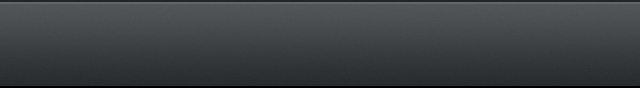
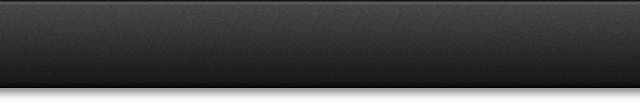
filters and sort

diff --git a/Spotlight/RootViewController.m b/Spotlight/RootViewController.m
@@ -20,12 +20,18 @@
   if (self) {
     [[PlaceDataCenter defaultCenter] setDelegate:self];
     [[NSNotificationCenter defaultCenter] addObserver:self selector:@selector(reverseGeocode) name:kLocationAcquired object:nil];
+    
+    _sortBy = [@"popularity" retain];
+    _distance = 0.5;
+    _limit = 25;
   }
   return self;
 }
 
 - (void)viewDidUnload {
   [super viewDidUnload];
+  RELEASE_SAFELY(_currentLocationLabel);
+  RELEASE_SAFELY(_toolbar);
   RELEASE_SAFELY(_searchField);
   RELEASE_SAFELY(_compassButton);
   RELEASE_SAFELY(_cancelButton);
@@ -37,9 +43,13 @@
   [[PlaceDataCenter defaultCenter] setDelegate:nil];
   [_searchField removeFromSuperview];
   
+  RELEASE_SAFELY(_currentLocationLabel);
+  RELEASE_SAFELY(_toolbar);
   RELEASE_SAFELY(_searchField);
   RELEASE_SAFELY(_compassButton);
   RELEASE_SAFELY(_cancelButton);
+  
+  RELEASE_SAFELY(_sortBy);
   [super dealloc];
 }
 
@@ -54,7 +64,6 @@
 #pragma mark - View
 - (void)viewWillAppear:(BOOL)animated {
   [super viewWillAppear:animated];
-
   
   [UIView animateWithDuration:0.4
                         delay:0.0
@@ -69,6 +78,7 @@
 
 - (void)viewWillDisappear:(BOOL)animated {
   [super viewWillDisappear:animated];
+  
   [_searchField resignFirstResponder];
   
   [UIView animateWithDuration:0.4
@@ -95,11 +105,38 @@
   
   // Table
   [self setupTableViewWithFrame:self.view.bounds andStyle:UITableViewStylePlain andSeparatorStyle:UITableViewCellSeparatorStyleNone];
-  
   _tableView.rowHeight = 160.0;
   
+  // Toolbar
+  _toolbar = [[UIToolbar alloc] initWithFrame:CGRectMake(0, 0, self.view.width, 44.0)];
+  NSMutableArray *toolbarItems = [NSMutableArray arrayWithCapacity:1];
+
+  [toolbarItems addObject:[UIBarButtonItem barButtonWithTitle:@"Sort" withTarget:self action:@selector(sort) width:60 height:30 buttonType:BarButtonTypeSilver]];
+  [toolbarItems addObject:[[UIBarButtonItem alloc] initWithBarButtonSystemItem:UIBarButtonSystemItemFlexibleSpace target:nil action:nil]];
+  
+  UIView *titleView = [[[UIView alloc] initWithFrame:CGRectMake(0, 0, _toolbar.width - 60 - 60 - 40, _toolbar.height)] autorelease];
+  titleView.autoresizingMask = UIViewAutoresizingFlexibleHeight | UIViewAutoresizingFlexibleWidth;
+  _currentLocationLabel = [[UILabel alloc] initWithFrame:titleView.bounds];
+  _currentLocationLabel.autoresizingMask = UIViewAutoresizingFlexibleHeight;
+  _currentLocationLabel.textAlignment = UITextAlignmentCenter;
+  _currentLocationLabel.numberOfLines = 3;
+  _currentLocationLabel.font = [PSStyleSheet fontForStyle:@"currentLocationLabel"];
+  _currentLocationLabel.textColor = [PSStyleSheet textColorForStyle:@"currentLocationLabel"];
+  _currentLocationLabel.shadowColor = [PSStyleSheet shadowColorForStyle:@"currentLocationLabel"];
+  _currentLocationLabel.shadowOffset = CGSizeMake(0, 1);
+  _currentLocationLabel.backgroundColor = [UIColor clearColor];
+  [titleView addSubview:_currentLocationLabel];
+  UIBarButtonItem *currentLocationItem = [[[UIBarButtonItem alloc] initWithCustomView:titleView] autorelease];
+  [toolbarItems addObject:currentLocationItem];
+  
+  [toolbarItems addObject:[[UIBarButtonItem alloc] initWithBarButtonSystemItem:UIBarButtonSystemItemFlexibleSpace target:nil action:nil]];
+  [toolbarItems addObject:[UIBarButtonItem barButtonWithTitle:@"Filter" withTarget:self action:@selector(filter) width:60 height:30 buttonType:BarButtonTypeSilver]];
+
+  [_toolbar setItems:toolbarItems];
+  [self setupFooterWithView:_toolbar];
+  
   // Compass location finder
-  _compassButton = [[UIBarButtonItem navButtonWithImage:[UIImage imageNamed:@"icon_compass.png"] withTarget:self action:@selector(findMyLocation) buttonType:NavButtonTypeBlue] retain];
+  _compassButton = [[UIBarButtonItem barButtonWithImage:[UIImage imageNamed:@"icon_compass.png"] withTarget:self action:@selector(findMyLocation) width:40 height:30 buttonType:BarButtonTypeBlue] retain];
   self.navigationItem.rightBarButtonItem = _compassButton;
   
   // Setup Search
@@ -114,18 +151,90 @@
   
   [[[UIApplication sharedApplication] keyWindow] addSubview:_searchField];
   
-  _cancelButton = [[UIBarButtonItem navButtonWithTitle:@"Cancel" withTarget:self action:@selector(cancelSearch) buttonType:NavButtonTypeSilver] retain];
+  _cancelButton = [[UIBarButtonItem barButtonWithTitle:@"Cancel" withTarget:self action:@selector(cancelSearch) width:60 height:30 buttonType:BarButtonTypeSilver] retain];
   
   // Populate datasource
   [self loadDataSource];
 }
 
-#pragma mark - Find My Location
+#pragma mark - Button Actios
 - (void)findMyLocation {
   [[PSLocationCenter defaultCenter] getMyLocation];
 }
 
+- (void)sort {
+  UIActionSheet *as = [[[UIActionSheet alloc] initWithTitle:@"Sort Results" delegate:self cancelButtonTitle:@"Cancel" destructiveButtonTitle:nil otherButtonTitles:@"Popularity", @"Distance", nil] autorelease];
+  as.tag = kSortActionSheet;
+  [as showFromToolbar:_toolbar];
+}
+
+- (void)filter {
+  UIActionSheet *as = [[[UIActionSheet alloc] initWithTitle:@"Distance" delegate:self cancelButtonTitle:@"Cancel" destructiveButtonTitle:nil otherButtonTitles:@"0.2 miles", @"0.5 miles", @"1.0 miles", @"3.0 miles", @"5.0 miles", nil] autorelease];
+  as.tag = kFilterActionSheet;
+  [as showFromToolbar:_toolbar];
+}
+
+#pragma mark - UIActionSheetDelegate
+- (void)actionSheet:(UIActionSheet *)actionSheet clickedButtonAtIndex:(NSInteger)buttonIndex {
+  switch (actionSheet.tag) {
+    case kSortActionSheet:
+      switch (buttonIndex) {
+        case 0:
+          _sortBy = @"index";
+          break;
+        case 1:
+          _sortBy = @"distance";
+          break;
+        default:
+          _sortBy = @"index";
+          break;
+      }
+      // Sort results
+      [self sortResults];
+      break;
+    case kFilterActionSheet:
+      switch (buttonIndex) {
+        case 0:
+          _distance = 0.2;
+          break;
+        case 1:
+          _distance = 0.5;
+          break;
+        case 2:
+          _distance = 1.0;
+          break;
+        case 3:
+          _distance = 3.0;
+          break;
+        case 4:
+          _distance = 5.0;
+          break;
+        default:
+          _distance = 0.5;
+          break;
+      }
+      // Reload Location
+      [self findMyLocation];
+      break;
+    default:
+      break;
+  }
+}
+
+#pragma mark - Sort
+- (void)sortResults {
+  NSArray *results = [self.items objectAtIndex:0];
+  NSArray *sortedResults = [results sortedArrayUsingDescriptors:[NSArray arrayWithObject:[NSSortDescriptor sortDescriptorWithKey:_sortBy ascending:YES]]];
+  [self.items replaceObjectAtIndex:0 withObject:sortedResults];
+  [self.tableView reloadData];
+}
+
 #pragma mark - State Machine
+- (void)reloadDataSource {
+  [super reloadDataSource];
+  [self loadDataSource];
+}
+
 - (void)loadDataSource {
   [super loadDataSource];
   [self findMyLocation];
@@ -159,8 +268,10 @@
   NSArray *addressArray = [NSArray arrayWithObjects:[[address objectForKey:@"FormattedAddressLines"] objectAtIndex:0], [[address objectForKey:@"FormattedAddressLines"] objectAtIndex:1], nil];
   NSString *formattedAddress = [addressArray componentsJoinedByString:@" "];
   
+  _currentLocationLabel.text = [NSString stringWithFormat:@"%@\n%@", [[address objectForKey:@"FormattedAddressLines"] objectAtIndex:0], [[address objectForKey:@"FormattedAddressLines"] objectAtIndex:1]];
+  
   // fetch Yelp Places
-  [[PlaceDataCenter defaultCenter] fetchYelpPlacesForAddress:formattedAddress];
+  [[PlaceDataCenter defaultCenter] fetchYelpPlacesForAddress:formattedAddress distance:_distance limit:_limit];
   
   _reverseGeocoder = nil;
   [geocoder release];
@@ -185,7 +296,8 @@
   // Put response into items (datasource)
   NSArray *data = response;
   if ([data count] > 0) {
-    [self.items addObject:data];
+    // Sort
+    [self.items addObject:[data sortedArrayUsingDescriptors:[NSArray arrayWithObject:[NSSortDescriptor sortDescriptorWithKey:_sortBy ascending:YES]]]];
   }
   
   [self dataSourceDidLoad];
@@ -259,7 +371,7 @@
   [_searchField resignFirstResponder];
   
   // Search Yelp with Address
-  [[PlaceDataCenter defaultCenter] fetchYelpPlacesForAddress:searchText];
+  [[PlaceDataCenter defaultCenter] fetchYelpPlacesForAddress:searchText distance:_distance limit:_limit];
 }
 
 #pragma mark - UITextFieldDelegate

diff --git a/Spotlight/UINavigationBar+Custom.m b/Spotlight/UINavigationBar+Custom.m
@@ -1,42 +1,20 @@
 //
 //  UINavigationBar+Custom.m
-//  PhotoTime
+//  Spotlight
 //
-//  Created by Peter Shih on 2/28/11.
-//  Copyright 2011 Seven Minute Labs. All rights reserved.
+//  Created by Peter Shih on 8/25/11.
+//  Copyright 2011 __MyCompanyName__. All rights reserved.
 //
 
 #import "UINavigationBar+Custom.h"
 #import <QuartzCore/QuartzCore.h>
-#import "PSConstants.h"
 
 @implementation UINavigationBar (Custom)
 
-//- (void)drawRect:(CGRect)rect
-//{
-//  UIImage *image = [[UIImage imageNamed:@"bg_navigationbar.png"] retain];
-//	[image drawInRect:CGRectMake(0, 0, self.frame.size.width, self.frame.size.height)];
-//}
-
-//- (void)layoutSubviews {
-//  [super layoutSubviews];
-//  self.tintColor = RGBACOLOR(80, 80, 80, 1.0);
-//}
-
-- (void)willMoveToWindow:(UIWindow *)newWindow
-{
-  [super willMoveToWindow:newWindow];
-  [self applyDropShadow];
-}
-
-- (void)applyDropShadow
-{
-  // add the drop shadow
-  self.layer.shadowColor = [[UIColor blackColor] CGColor];
-  self.layer.shadowOffset = CGSizeMake(0.0, 3.0);
-  self.layer.shadowOpacity = 0.33;
-  self.layer.masksToBounds = NO;
-  self.layer.shouldRasterize = YES;
+- (void)drawRect:(CGRect)rect {
+  UIImage *image = [[UIImage imageNamed:@"bg_navigationbar.png"] retain];
+  [image drawInRect:CGRectMake(0, 0, rect.size.width, rect.size.height + 7)];
+  [image release];
 }
 
 @end

diff --git a/Spotlight/PlaceDataCenter.m b/Spotlight/PlaceDataCenter.m
@@ -30,11 +30,13 @@
   }
 }
 
-- (void)fetchYelpPlacesForAddress:(NSString *)address {
-  NSLog(@"fetching places near: %@", address);
+- (void)fetchYelpPlacesForAddress:(NSString *)address distance:(CGFloat)distance limit:(NSInteger)limit {
+  if (distance == 0.0) distance = 1.0;
+  if (limit == 0) limit = 25;
+  NSLog(@"fetching places near: %@ distance: %f, limit: %d", address, distance, limit);
   NSString *urlEncodedAddress = [address stringByURLEncoding];
   
-  NSString *yelpUrlString = [NSString stringWithFormat:@"http://lite.yelp.com/search?cflt=restaurants&rflt=all&sortby=composite&radius=3&find_loc=%@&rpp=50", urlEncodedAddress];
+  NSString *yelpUrlString = [NSString stringWithFormat:@"http://lite.yelp.com/search?cflt=restaurants&rflt=all&sortby=composite&find_loc=%@&radius=%f&rpp=%d", urlEncodedAddress, distance, limit];
   NSURL *yelpUrl = [NSURL URLWithString:yelpUrlString];
   __block ASIHTTPRequest *request = [ASIHTTPRequest requestWithURL:yelpUrl];
   [request setShouldContinueWhenAppEntersBackground:YES];

diff --git a/Spotlight/SpotlightAppDelegate.m b/Spotlight/SpotlightAppDelegate.m
@@ -64,6 +64,7 @@
 
 - (void)applicationDidEnterBackground:(UIApplication *)application
 {
+  [[NSNotificationCenter defaultCenter] postNotificationName:kApplicationSuspended object:nil];
   /*
    Use this method to release shared resources, save user data, invalidate timers, and store enough application state information to restore your application to its current state in case it is terminated later. 
    If your application supports background execution, this method is called instead of applicationWillTerminate: when the user quits.
@@ -72,6 +73,7 @@
 
 - (void)applicationWillEnterForeground:(UIApplication *)application
 {
+  [[NSNotificationCenter defaultCenter] postNotificationName:kApplicationResumed object:nil];
   /*
    Called as part of the transition from the background to the inactive state; here you can undo many of the changes made on entering the background.
    */

diff --git a/Spotlight/RootViewController.h b/Spotlight/RootViewController.h
@@ -10,17 +10,28 @@
 #import <MapKit/MapKit.h>
 #import "PSTableViewController.h"
 
-@interface RootViewController : PSTableViewController <MKReverseGeocoderDelegate, UITextFieldDelegate, ADBannerViewDelegate> {
+@interface RootViewController : PSTableViewController <MKReverseGeocoderDelegate, UITextFieldDelegate, ADBannerViewDelegate, UIActionSheetDelegate> {
+  UIToolbar *_toolbar;
   PSTextField *_searchField;
   UIBarButtonItem *_compassButton;
   UIBarButtonItem *_cancelButton;
+  UILabel *_currentLocationLabel;
   
   MKReverseGeocoder *_reverseGeocoder;
+  
+  NSString *_sortBy;
+  CGFloat _distance;
+  NSInteger _limit;
   
   BOOL _searchActive;
 }
 
+// Buttons
 - (void)findMyLocation;
+- (void)sort;
+- (void)filter;
+
 - (void)reverseGeocode;
+- (void)sortResults;
 
 @end

diff --git a/Spotlight/Constants.h b/Spotlight/Constants.h
@@ -21,7 +21,13 @@
 // App Delegate Macro
 #define APP_DELEGATE ((SpotlightAppDelegate *)[[UIApplication sharedApplication] delegate])
 
+// Tags
+#define kSortActionSheet 7070
+#define kFilterActionSheet 7071
+
 // Notifications
+#define kApplicationResumed @"ApplicationResumed"
+#define kApplicationSuspended @"ApplicationSuspended"
 #define kLocationAcquired @"LocationAcquired"
 #define kLogoutRequested @"LogoutRequested"
 #define kOrientationChanged @"OrientationChangedNotification"

diff --git a/Spotlight/UIToolbar+Custom.m b/Spotlight/UIToolbar+Custom.m
@@ -1,0 +1,20 @@
+//
+//  UIToolbar+Custom.m
+//  Spotlight
+//
+//  Created by Peter Shih on 8/25/11.
+//  Copyright 2011 __MyCompanyName__. All rights reserved.
+//
+
+#import "UIToolbar+Custom.h"
+#import <QuartzCore/QuartzCore.h>
+
+@implementation UIToolbar (Custom)
+
+- (void)drawRect:(CGRect)rect {
+  UIImage *image = [[UIImage imageNamed:@"bg_toolbar.png"] retain];
+  [image drawInRect:CGRectMake(0, -7, rect.size.width, rect.size.height + 7)];
+  [image release];
+}
+
+@end

diff --git a/Spotlight/UIToolbar+Custom.h b/Spotlight/UIToolbar+Custom.h
@@ -1,5 +1,5 @@
 //
-//  UINavigationBar+Custom.h
+//  UIToolbar+Custom.h
 //  Spotlight
 //
 //  Created by Peter Shih on 8/25/11.
@@ -8,6 +8,6 @@
 
 #import <UIKit/UIKit.h>
 
-@interface UINavigationBar (Custom)
+@interface UIToolbar (Custom)
 
 @end

diff --git a/Spotlight/PlaceDataCenter.h b/Spotlight/PlaceDataCenter.h
@@ -14,6 +14,6 @@
 }
 
 - (void)getPlacesFromFixtures;
-- (void)fetchYelpPlacesForAddress:(NSString *)address;
+- (void)fetchYelpPlacesForAddress:(NSString *)address distance:(CGFloat)distance limit:(NSInteger)limit;
 
 @end
